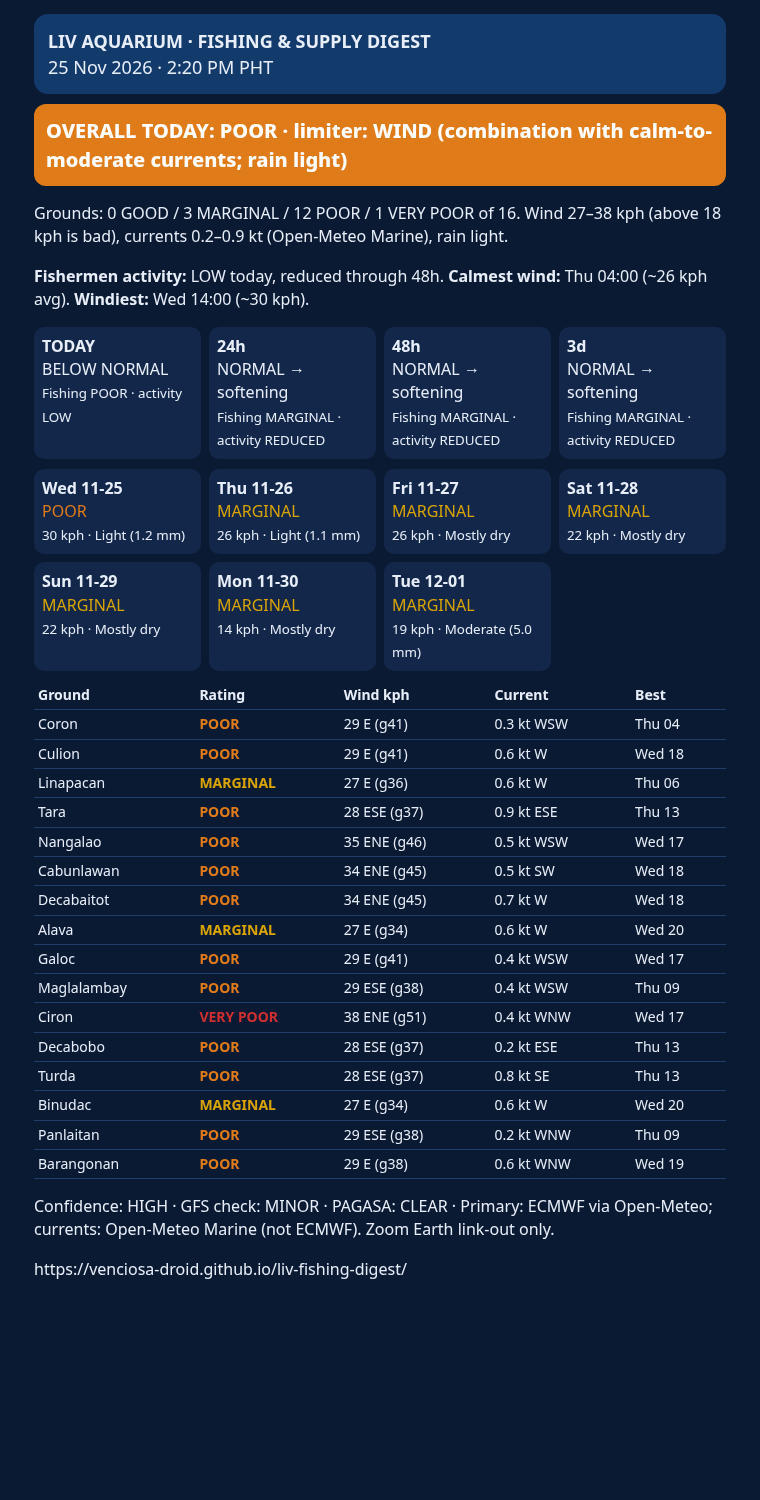
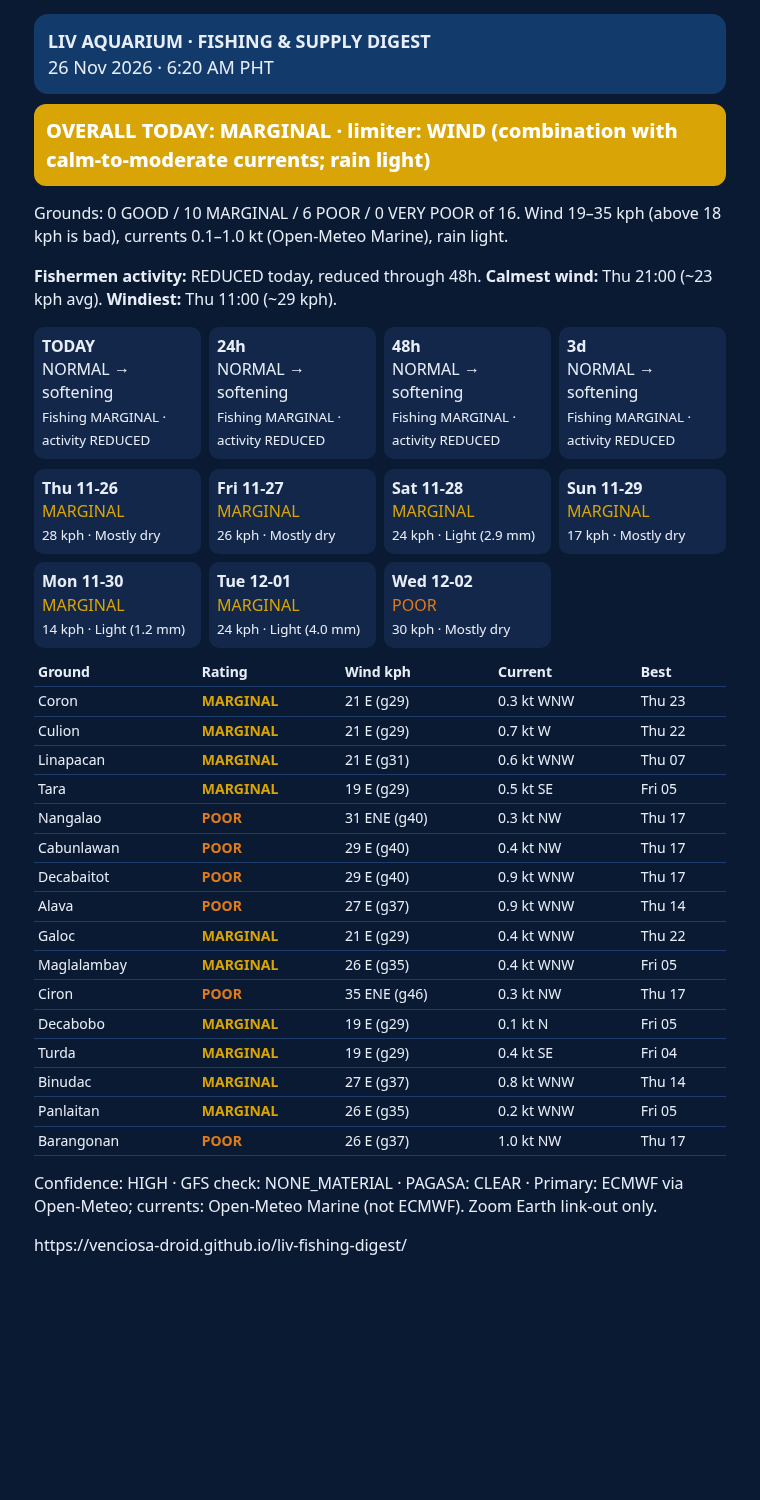
Digest 2026-11-26-am

diff --git a/digest.html b/digest.html
@@ -1,9 +1,9 @@
-<!DOCTYPE html><html lang=en><head><meta name="viewport" content="width=device-width,initial-scale=1"><meta charset=utf-8><meta name=viewport content='width=device-width,initial-scale=1'><title>LIV Digest 25 Nov 2026 · 2:20 PM PHT</title><style>*{box-sizing:border-box}body{max-width:720px;margin:0 auto;background:#0b1a33;color:#e8eef8;font:16px/1.45 system-ui,sans-serif;padding:14px}.hd{background:#123a6b;border-radius:14px;padding:14px;margin-bottom:10px;font-size:18px}.big{border-radius:12px;padding:12px;font-weight:800;font-size:20px;color:#fff;margin-bottom:10px}.g{display:grid;grid-template-columns:repeat(auto-fit,minmax(150px,1fr));gap:8px;margin:10px 0}.s{background:#12274a;border-radius:10px;padding:8px}table{width:100%;border-collapse:collapse;font-size:14px}td,th{padding:4px;border-bottom:1px solid #1f3d6b;text-align:left}</style></head><body><div style="font:14px system-ui;padding:8px 12px;background:#0b3d5c;color:#fff"><b>LIV Fishing &amp; Supply digest</b> &middot; <a style="color:#9fd8ff" href="./index.html">Map dashboard</a> &middot; <a style="color:#9fd8ff" href="./digest.html">Latest report</a> &middot; <a style="color:#9fd8ff" href="./archive/">Archive</a> &middot; <a style="color:#9fd8ff" href="latest.png">Image</a></div><div class=hd><b>LIV AQUARIUM · FISHING &amp; SUPPLY DIGEST</b><br>25 Nov 2026 · 2:20 PM PHT</div>
-<div class=big style='background:#e07b1a'>OVERALL TODAY: POOR · limiter: WIND (combination with calm-to-moderate currents; rain light)</div>
-<p>Grounds: 0 GOOD / 3 MARGINAL / 12 POOR / 1 VERY POOR of 16. Wind 27–38 kph (above 18 kph is bad), currents 0.2–0.9 kt (Open-Meteo Marine), rain light.</p>
-<p><b>Fishermen activity:</b> LOW today, reduced through 48h. <b>Calmest wind:</b> Thu 04:00 (~26 kph avg). <b>Windiest:</b> Wed 14:00 (~30 kph).</p>
-<div class=g><div class=s><b>TODAY</b><br>BELOW NORMAL<br><small>Fishing POOR · activity LOW</small></div><div class=s><b>24h</b><br>NORMAL → softening<br><small>Fishing MARGINAL · activity REDUCED</small></div><div class=s><b>48h</b><br>NORMAL → softening<br><small>Fishing MARGINAL · activity REDUCED</small></div><div class=s><b>3d</b><br>NORMAL → softening<br><small>Fishing MARGINAL · activity REDUCED</small></div></div>
-<div class=g><div class=s><b>Wed 11-25</b><br style=x><span style='color:#e07b1a'>POOR</span><br><small>30 kph · Light (1.2 mm)</small></div><div class=s><b>Thu 11-26</b><br style=x><span style='color:#d9a406'>MARGINAL</span><br><small>26 kph · Light (1.1 mm)</small></div><div class=s><b>Fri 11-27</b><br style=x><span style='color:#d9a406'>MARGINAL</span><br><small>26 kph · Mostly dry</small></div><div class=s><b>Sat 11-28</b><br style=x><span style='color:#d9a406'>MARGINAL</span><br><small>22 kph · Mostly dry</small></div><div class=s><b>Sun 11-29</b><br style=x><span style='color:#d9a406'>MARGINAL</span><br><small>22 kph · Mostly dry</small></div><div class=s><b>Mon 11-30</b><br style=x><span style='color:#d9a406'>MARGINAL</span><br><small>14 kph · Mostly dry</small></div><div class=s><b>Tue 12-01</b><br style=x><span style='color:#d9a406'>MARGINAL</span><br><small>19 kph · Moderate (5.0 mm)</small></div></div>
-<table><tr><th>Ground</th><th>Rating</th><th>Wind kph</th><th>Current</th><th>Best</th></tr><tr><td>Coron</td><td style='color:#e07b1a;font-weight:700'>POOR</td><td>29 E (g41)</td><td>0.3 kt WSW</td><td>Thu 04</td></tr><tr><td>Culion</td><td style='color:#e07b1a;font-weight:700'>POOR</td><td>29 E (g41)</td><td>0.6 kt W</td><td>Wed 18</td></tr><tr><td>Linapacan</td><td style='color:#d9a406;font-weight:700'>MARGINAL</td><td>27 E (g36)</td><td>0.6 kt W</td><td>Thu 06</td></tr><tr><td>Tara</td><td style='color:#e07b1a;font-weight:700'>POOR</td><td>28 ESE (g37)</td><td>0.9 kt ESE</td><td>Thu 13</td></tr><tr><td>Nangalao</td><td style='color:#e07b1a;font-weight:700'>POOR</td><td>35 ENE (g46)</td><td>0.5 kt WSW</td><td>Wed 17</td></tr><tr><td>Cabunlawan</td><td style='color:#e07b1a;font-weight:700'>POOR</td><td>34 ENE (g45)</td><td>0.5 kt SW</td><td>Wed 18</td></tr><tr><td>Decabaitot</td><td style='color:#e07b1a;font-weight:700'>POOR</td><td>34 ENE (g45)</td><td>0.7 kt W</td><td>Wed 18</td></tr><tr><td>Alava</td><td style='color:#d9a406;font-weight:700'>MARGINAL</td><td>27 E (g34)</td><td>0.6 kt W</td><td>Wed 20</td></tr><tr><td>Galoc</td><td style='color:#e07b1a;font-weight:700'>POOR</td><td>29 E (g41)</td><td>0.4 kt WSW</td><td>Wed 17</td></tr><tr><td>Maglalambay</td><td style='color:#e07b1a;font-weight:700'>POOR</td><td>29 ESE (g38)</td><td>0.4 kt WSW</td><td>Thu 09</td></tr><tr><td>Ciron</td><td style='color:#cf2f2f;font-weight:700'>VERY POOR</td><td>38 ENE (g51)</td><td>0.4 kt WNW</td><td>Wed 17</td></tr><tr><td>Decabobo</td><td style='color:#e07b1a;font-weight:700'>POOR</td><td>28 ESE (g37)</td><td>0.2 kt ESE</td><td>Thu 13</td></tr><tr><td>Turda</td><td style='color:#e07b1a;font-weight:700'>POOR</td><td>28 ESE (g37)</td><td>0.8 kt SE</td><td>Thu 13</td></tr><tr><td>Binudac</td><td style='color:#d9a406;font-weight:700'>MARGINAL</td><td>27 E (g34)</td><td>0.6 kt W</td><td>Wed 20</td></tr><tr><td>Panlaitan</td><td style='color:#e07b1a;font-weight:700'>POOR</td><td>29 ESE (g38)</td><td>0.2 kt WNW</td><td>Thu 09</td></tr><tr><td>Barangonan</td><td style='color:#e07b1a;font-weight:700'>POOR</td><td>29 E (g38)</td><td>0.6 kt WNW</td><td>Wed 19</td></tr></table>
-<p>Confidence: HIGH · GFS check: MINOR · PAGASA: CLEAR · Primary: ECMWF via Open-Meteo; currents: Open-Meteo Marine (not ECMWF). Zoom Earth link-out only.</p>
+<!DOCTYPE html><html lang=en><head><meta name="viewport" content="width=device-width,initial-scale=1"><meta charset=utf-8><meta name=viewport content='width=device-width,initial-scale=1'><title>LIV Digest 26 Nov 2026 · 6:20 AM PHT</title><style>*{box-sizing:border-box}body{max-width:720px;margin:0 auto;background:#0b1a33;color:#e8eef8;font:16px/1.45 system-ui,sans-serif;padding:14px}.hd{background:#123a6b;border-radius:14px;padding:14px;margin-bottom:10px;font-size:18px}.big{border-radius:12px;padding:12px;font-weight:800;font-size:20px;color:#fff;margin-bottom:10px}.g{display:grid;grid-template-columns:repeat(auto-fit,minmax(150px,1fr));gap:8px;margin:10px 0}.s{background:#12274a;border-radius:10px;padding:8px}table{width:100%;border-collapse:collapse;font-size:14px}td,th{padding:4px;border-bottom:1px solid #1f3d6b;text-align:left}</style></head><body><div style="font:14px system-ui;padding:8px 12px;background:#0b3d5c;color:#fff"><b>LIV Fishing &amp; Supply digest</b> &middot; <a style="color:#9fd8ff" href="./index.html">Map dashboard</a> &middot; <a style="color:#9fd8ff" href="./digest.html">Latest report</a> &middot; <a style="color:#9fd8ff" href="./archive/">Archive</a> &middot; <a style="color:#9fd8ff" href="latest.png">Image</a></div><div class=hd><b>LIV AQUARIUM · FISHING &amp; SUPPLY DIGEST</b><br>26 Nov 2026 · 6:20 AM PHT</div>
+<div class=big style='background:#d9a406'>OVERALL TODAY: MARGINAL · limiter: WIND (combination with calm-to-moderate currents; rain light)</div>
+<p>Grounds: 0 GOOD / 10 MARGINAL / 6 POOR / 0 VERY POOR of 16. Wind 19–35 kph (above 18 kph is bad), currents 0.1–1.0 kt (Open-Meteo Marine), rain light.</p>
+<p><b>Fishermen activity:</b> REDUCED today, reduced through 48h. <b>Calmest wind:</b> Thu 21:00 (~23 kph avg). <b>Windiest:</b> Thu 11:00 (~29 kph).</p>
+<div class=g><div class=s><b>TODAY</b><br>NORMAL → softening<br><small>Fishing MARGINAL · activity REDUCED</small></div><div class=s><b>24h</b><br>NORMAL → softening<br><small>Fishing MARGINAL · activity REDUCED</small></div><div class=s><b>48h</b><br>NORMAL → softening<br><small>Fishing MARGINAL · activity REDUCED</small></div><div class=s><b>3d</b><br>NORMAL → softening<br><small>Fishing MARGINAL · activity REDUCED</small></div></div>
+<div class=g><div class=s><b>Thu 11-26</b><br style=x><span style='color:#d9a406'>MARGINAL</span><br><small>28 kph · Mostly dry</small></div><div class=s><b>Fri 11-27</b><br style=x><span style='color:#d9a406'>MARGINAL</span><br><small>26 kph · Mostly dry</small></div><div class=s><b>Sat 11-28</b><br style=x><span style='color:#d9a406'>MARGINAL</span><br><small>24 kph · Light (2.9 mm)</small></div><div class=s><b>Sun 11-29</b><br style=x><span style='color:#d9a406'>MARGINAL</span><br><small>17 kph · Mostly dry</small></div><div class=s><b>Mon 11-30</b><br style=x><span style='color:#d9a406'>MARGINAL</span><br><small>14 kph · Light (1.2 mm)</small></div><div class=s><b>Tue 12-01</b><br style=x><span style='color:#d9a406'>MARGINAL</span><br><small>24 kph · Light (4.0 mm)</small></div><div class=s><b>Wed 12-02</b><br style=x><span style='color:#e07b1a'>POOR</span><br><small>30 kph · Mostly dry</small></div></div>
+<table><tr><th>Ground</th><th>Rating</th><th>Wind kph</th><th>Current</th><th>Best</th></tr><tr><td>Coron</td><td style='color:#d9a406;font-weight:700'>MARGINAL</td><td>21 E (g29)</td><td>0.3 kt WNW</td><td>Thu 23</td></tr><tr><td>Culion</td><td style='color:#d9a406;font-weight:700'>MARGINAL</td><td>21 E (g29)</td><td>0.7 kt W</td><td>Thu 22</td></tr><tr><td>Linapacan</td><td style='color:#d9a406;font-weight:700'>MARGINAL</td><td>21 E (g31)</td><td>0.6 kt WNW</td><td>Thu 07</td></tr><tr><td>Tara</td><td style='color:#d9a406;font-weight:700'>MARGINAL</td><td>19 E (g29)</td><td>0.5 kt SE</td><td>Fri 05</td></tr><tr><td>Nangalao</td><td style='color:#e07b1a;font-weight:700'>POOR</td><td>31 ENE (g40)</td><td>0.3 kt NW</td><td>Thu 17</td></tr><tr><td>Cabunlawan</td><td style='color:#e07b1a;font-weight:700'>POOR</td><td>29 E (g40)</td><td>0.4 kt NW</td><td>Thu 17</td></tr><tr><td>Decabaitot</td><td style='color:#e07b1a;font-weight:700'>POOR</td><td>29 E (g40)</td><td>0.9 kt WNW</td><td>Thu 17</td></tr><tr><td>Alava</td><td style='color:#e07b1a;font-weight:700'>POOR</td><td>27 E (g37)</td><td>0.9 kt WNW</td><td>Thu 14</td></tr><tr><td>Galoc</td><td style='color:#d9a406;font-weight:700'>MARGINAL</td><td>21 E (g29)</td><td>0.4 kt WNW</td><td>Thu 22</td></tr><tr><td>Maglalambay</td><td style='color:#d9a406;font-weight:700'>MARGINAL</td><td>26 E (g35)</td><td>0.4 kt WNW</td><td>Fri 05</td></tr><tr><td>Ciron</td><td style='color:#e07b1a;font-weight:700'>POOR</td><td>35 ENE (g46)</td><td>0.3 kt NW</td><td>Thu 17</td></tr><tr><td>Decabobo</td><td style='color:#d9a406;font-weight:700'>MARGINAL</td><td>19 E (g29)</td><td>0.1 kt N</td><td>Fri 05</td></tr><tr><td>Turda</td><td style='color:#d9a406;font-weight:700'>MARGINAL</td><td>19 E (g29)</td><td>0.4 kt SE</td><td>Fri 04</td></tr><tr><td>Binudac</td><td style='color:#d9a406;font-weight:700'>MARGINAL</td><td>27 E (g37)</td><td>0.8 kt WNW</td><td>Thu 14</td></tr><tr><td>Panlaitan</td><td style='color:#d9a406;font-weight:700'>MARGINAL</td><td>26 E (g35)</td><td>0.2 kt WNW</td><td>Fri 05</td></tr><tr><td>Barangonan</td><td style='color:#e07b1a;font-weight:700'>POOR</td><td>26 E (g37)</td><td>1.0 kt NW</td><td>Thu 17</td></tr></table>
+<p>Confidence: HIGH · GFS check: NONE_MATERIAL · PAGASA: CLEAR · Primary: ECMWF via Open-Meteo; currents: Open-Meteo Marine (not ECMWF). Zoom Earth link-out only.</p>
 <p>https://venciosa-droid.github.io/liv-fishing-digest/</p></body></html>

diff --git a/archive/2026-11-26-am.html b/archive/2026-11-26-am.html
@@ -1,0 +1,9 @@
+<!DOCTYPE html><html lang=en><head><meta name="viewport" content="width=device-width,initial-scale=1"><meta charset=utf-8><meta name=viewport content='width=device-width,initial-scale=1'><title>LIV Digest 26 Nov 2026 · 6:20 AM PHT</title><style>*{box-sizing:border-box}body{max-width:720px;margin:0 auto;background:#0b1a33;color:#e8eef8;font:16px/1.45 system-ui,sans-serif;padding:14px}.hd{background:#123a6b;border-radius:14px;padding:14px;margin-bottom:10px;font-size:18px}.big{border-radius:12px;padding:12px;font-weight:800;font-size:20px;color:#fff;margin-bottom:10px}.g{display:grid;grid-template-columns:repeat(auto-fit,minmax(150px,1fr));gap:8px;margin:10px 0}.s{background:#12274a;border-radius:10px;padding:8px}table{width:100%;border-collapse:collapse;font-size:14px}td,th{padding:4px;border-bottom:1px solid #1f3d6b;text-align:left}</style></head><body><div style="font:14px system-ui;padding:8px 12px;background:#0b3d5c;color:#fff"><b>LIV Fishing &amp; Supply digest</b> &middot; <a style="color:#9fd8ff" href="../index.html">Map dashboard</a> &middot; <a style="color:#9fd8ff" href="../digest.html">Latest report</a> &middot; <a style="color:#9fd8ff" href="../archive/">Archive</a> &middot; <a style="color:#9fd8ff" href="2026-11-26-am.png">Image</a></div><div class=hd><b>LIV AQUARIUM · FISHING &amp; SUPPLY DIGEST</b><br>26 Nov 2026 · 6:20 AM PHT</div>
+<div class=big style='background:#d9a406'>OVERALL TODAY: MARGINAL · limiter: WIND (combination with calm-to-moderate currents; rain light)</div>
+<p>Grounds: 0 GOOD / 10 MARGINAL / 6 POOR / 0 VERY POOR of 16. Wind 19–35 kph (above 18 kph is bad), currents 0.1–1.0 kt (Open-Meteo Marine), rain light.</p>
+<p><b>Fishermen activity:</b> REDUCED today, reduced through 48h. <b>Calmest wind:</b> Thu 21:00 (~23 kph avg). <b>Windiest:</b> Thu 11:00 (~29 kph).</p>
+<div class=g><div class=s><b>TODAY</b><br>NORMAL → softening<br><small>Fishing MARGINAL · activity REDUCED</small></div><div class=s><b>24h</b><br>NORMAL → softening<br><small>Fishing MARGINAL · activity REDUCED</small></div><div class=s><b>48h</b><br>NORMAL → softening<br><small>Fishing MARGINAL · activity REDUCED</small></div><div class=s><b>3d</b><br>NORMAL → softening<br><small>Fishing MARGINAL · activity REDUCED</small></div></div>
+<div class=g><div class=s><b>Thu 11-26</b><br style=x><span style='color:#d9a406'>MARGINAL</span><br><small>28 kph · Mostly dry</small></div><div class=s><b>Fri 11-27</b><br style=x><span style='color:#d9a406'>MARGINAL</span><br><small>26 kph · Mostly dry</small></div><div class=s><b>Sat 11-28</b><br style=x><span style='color:#d9a406'>MARGINAL</span><br><small>24 kph · Light (2.9 mm)</small></div><div class=s><b>Sun 11-29</b><br style=x><span style='color:#d9a406'>MARGINAL</span><br><small>17 kph · Mostly dry</small></div><div class=s><b>Mon 11-30</b><br style=x><span style='color:#d9a406'>MARGINAL</span><br><small>14 kph · Light (1.2 mm)</small></div><div class=s><b>Tue 12-01</b><br style=x><span style='color:#d9a406'>MARGINAL</span><br><small>24 kph · Light (4.0 mm)</small></div><div class=s><b>Wed 12-02</b><br style=x><span style='color:#e07b1a'>POOR</span><br><small>30 kph · Mostly dry</small></div></div>
+<table><tr><th>Ground</th><th>Rating</th><th>Wind kph</th><th>Current</th><th>Best</th></tr><tr><td>Coron</td><td style='color:#d9a406;font-weight:700'>MARGINAL</td><td>21 E (g29)</td><td>0.3 kt WNW</td><td>Thu 23</td></tr><tr><td>Culion</td><td style='color:#d9a406;font-weight:700'>MARGINAL</td><td>21 E (g29)</td><td>0.7 kt W</td><td>Thu 22</td></tr><tr><td>Linapacan</td><td style='color:#d9a406;font-weight:700'>MARGINAL</td><td>21 E (g31)</td><td>0.6 kt WNW</td><td>Thu 07</td></tr><tr><td>Tara</td><td style='color:#d9a406;font-weight:700'>MARGINAL</td><td>19 E (g29)</td><td>0.5 kt SE</td><td>Fri 05</td></tr><tr><td>Nangalao</td><td style='color:#e07b1a;font-weight:700'>POOR</td><td>31 ENE (g40)</td><td>0.3 kt NW</td><td>Thu 17</td></tr><tr><td>Cabunlawan</td><td style='color:#e07b1a;font-weight:700'>POOR</td><td>29 E (g40)</td><td>0.4 kt NW</td><td>Thu 17</td></tr><tr><td>Decabaitot</td><td style='color:#e07b1a;font-weight:700'>POOR</td><td>29 E (g40)</td><td>0.9 kt WNW</td><td>Thu 17</td></tr><tr><td>Alava</td><td style='color:#e07b1a;font-weight:700'>POOR</td><td>27 E (g37)</td><td>0.9 kt WNW</td><td>Thu 14</td></tr><tr><td>Galoc</td><td style='color:#d9a406;font-weight:700'>MARGINAL</td><td>21 E (g29)</td><td>0.4 kt WNW</td><td>Thu 22</td></tr><tr><td>Maglalambay</td><td style='color:#d9a406;font-weight:700'>MARGINAL</td><td>26 E (g35)</td><td>0.4 kt WNW</td><td>Fri 05</td></tr><tr><td>Ciron</td><td style='color:#e07b1a;font-weight:700'>POOR</td><td>35 ENE (g46)</td><td>0.3 kt NW</td><td>Thu 17</td></tr><tr><td>Decabobo</td><td style='color:#d9a406;font-weight:700'>MARGINAL</td><td>19 E (g29)</td><td>0.1 kt N</td><td>Fri 05</td></tr><tr><td>Turda</td><td style='color:#d9a406;font-weight:700'>MARGINAL</td><td>19 E (g29)</td><td>0.4 kt SE</td><td>Fri 04</td></tr><tr><td>Binudac</td><td style='color:#d9a406;font-weight:700'>MARGINAL</td><td>27 E (g37)</td><td>0.8 kt WNW</td><td>Thu 14</td></tr><tr><td>Panlaitan</td><td style='color:#d9a406;font-weight:700'>MARGINAL</td><td>26 E (g35)</td><td>0.2 kt WNW</td><td>Fri 05</td></tr><tr><td>Barangonan</td><td style='color:#e07b1a;font-weight:700'>POOR</td><td>26 E (g37)</td><td>1.0 kt NW</td><td>Thu 17</td></tr></table>
+<p>Confidence: HIGH · GFS check: NONE_MATERIAL · PAGASA: CLEAR · Primary: ECMWF via Open-Meteo; currents: Open-Meteo Marine (not ECMWF). Zoom Earth link-out only.</p>
+<p>https://venciosa-droid.github.io/liv-fishing-digest/</p></body></html>

diff --git a/archive/index.html b/archive/index.html
@@ -1,4 +1,5 @@
 <!doctype html><meta charset=utf-8><meta name=viewport content="width=device-width,initial-scale=1"><title>LIV digest archive</title><body style="font:16px system-ui;max-width:640px;margin:auto;padding:12px"><h1>LIV digest archive</h1><p><a href="../">Map dashboard</a> · <a href="../digest.html">Latest report</a></p><ul>
+<li><a href="2026-11-26-am.html">2026-11-26-am</a> (<a href="2026-11-26-am.png">image</a>)</li>
 <li><a href="2026-11-25-pm.html">2026-11-25-pm</a> (<a href="2026-11-25-pm.png">image</a>)</li>
 <li><a href="2026-11-25-am.html">2026-11-25-am</a> (<a href="2026-11-25-am.png">image</a>)</li>
 <li><a href="2026-11-24-pm.html">2026-11-24-pm</a> (<a href="2026-11-24-pm.png">image</a>)</li>
